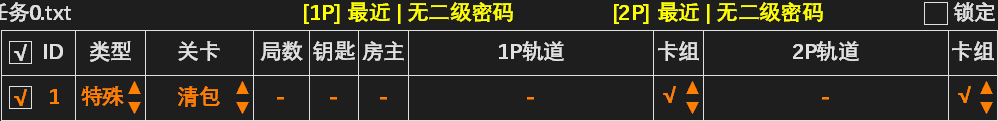
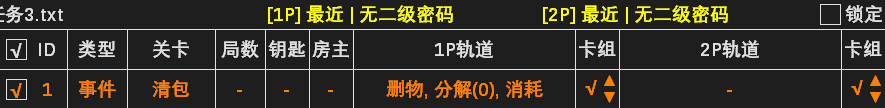
Track-Web 1.3.1 1.更新了轨道6.3的使用手册内容 2.更新了轨道6.3和6.2.1的日志 3.下载页新增DLC板块

diff --git a/docs/.vuepress/notes.ts b/docs/.vuepress/notes.ts
@@ -88,6 +88,7 @@ const guideNote = defineNoteConfig({
       { text: '5.2 任务监视', link: '/guide/8upqlk4f/' , icon: 'solar:book-bold'},
       { text: '5.3 自动带卡', link: '/guide/cjo0xlx8/' , icon: 'solar:book-bold'},
       { text: '5.4 检查任务', link: '/guide/v9pghbyn/' , icon: 'solar:book-bold'},
+      { text: '5.5 动态验证', link: '/guide/ntat024a/' , icon: 'solar:book-bold'},
     ]
     }],
 })

diff --git a/docs/notes/guide/Ch3/3.2.md b/docs/notes/guide/Ch3/3.2.md
@@ -72,28 +72,38 @@ permalink: /guide/f0kz7lyd/
 </tbody>
 </table>
 
-- 设置好每项任务的类型、关卡、局数、轨道、卡组，然后抓取1P和2P大厅，在任意岛屿启动任务，程序便会依次执行任务列表中每项勾选的任务。
-- 1. 支持的任务类型有：<span style="color: #0070C0;">悬赏、勇士、跨服、魔塔（含宠塔）、副本（假期/公会/巅峰）、任务（公会/情侣/大赛）、主线（三岛/遗迹/海底/星际）、番外（营地/沙漠/雷城/雪山/奇境）、事件（签到/施肥/清包/送花/双倍卡等）、强化（卡片/宝石）</span>。
-
-- 2. 房主可选择1P或2P。例如假期互票65局可以如下设置：
+- 设置好每项任务的类型、关卡、局数、轨道、卡组，然后抓取1P和2P大厅，进入<span style="color: red;">任意岛屿主界面</span>（如美味镇），程序便会依次执行任务列表中每项勾选的任务。
+- 执行过程中会用红绿灯指示任务状态。<span style="color: #00B050;">绿色</span>表示已完成的任务，<span style="color: red;">红色</span>表示未完成的任务，<span style="color: #ED7D31;">黄色</span>表示正在进行的任务，如下图所示。在左上角的<span style="color: red;">消息区</span>可以看到具体的执行信息。执行过程中单击“暂停”可以暂停任务，在任意岛屿主界面点击“继续”即可恢复执行。
 
 ![](./picture/3.2.1.1.png)
 
+- 补充说明：
+- 1. 支持的任务类型有：<span style="color: red;">悬赏、勇士、跨服、魔塔（含宠塔）、副本（假期/公会/巅峰）、任务（公会/情侣/大赛）、</span> <span style="color: #0070C0;">主线（三岛/遗迹/海底/星际）、</span> <span style="color: #7030A0;">番外（营地/沙漠/雷城/雪山/奇境）、</span> <span style="color: #ED7D31;">事件（签到/施肥/清包/送花/双倍卡等）、强化（卡片/宝石）</span>。单击任务类型即可修改。
+
+:::center
+![](./picture/3.2.1.2.png)
+![](./picture/3.2.1.3.png)
+:::
+
+- 2. 房主可选择1P或2P。例如假期互票65局可以如下设置：
+
+![](./picture/3.2.1.4.png)
+
 - 3. 将房主设为<span style="color: red;">同步</span>，可以让 1P 和 2P 分别建房执行单人刷图。若一方先刷完，则会等待另一方刷完再执行后面的任务。
 
-![](./picture/3.2.1.2.png)
+![](./picture/3.2.1.5.png)
 
 
 - 4. 卡组设为“×”表示该账号不参与本条任务。例如下图表示2P单刷美味悬赏。
 
-![](./picture/3.2.1.3.png)
+![](./picture/3.2.1.6.png)
 
-- 5. 执行器右侧的 <img src="./picture/3.2.1.4.png" alt="" width="80" height="25"> 按钮可以为所有任务填写通用轨道。通用轨道所需卡槽截图均已内置，可直接使用空卡组全自动带卡。自动带卡原理请看[5.3 自动带卡](../Ch5/5.3.md)。
+- 5. 执行器右侧的 <img src="./picture/3.2.1.7.png" alt="" width="80" height="25"> 按钮可以为所有任务填写通用轨道。通用轨道所需卡槽截图均已内置，可直接使用空卡组全自动带卡。自动带卡原理请看[5.3 自动带卡](../Ch5/5.3.md)。
 
 - 6. 高级任务可以同时执行 5 组，点击两侧箭头即可切换。点击任务名称可以修改。
 
 :::center
-![](./picture/3.2.1.5.png)
+![](./picture/3.2.1.8.png)
 :::
 
 - 如果还不够用，将整个轨道文件夹复制一份，即可同时启动不同文件夹中的执行器。
@@ -135,13 +145,13 @@ permalink: /guide/f0kz7lyd/
 ![](./picture/3.2.2.7.png)
 :::
 
-- 这样就建立了一份粗细角色名的对应关系（如下图）。重启执行器后，轨道将按照用户截取的细角色名进行邀请。
+- 这样就建立了一份粗细角色名的对应关系（如下图），轨道将按照截取的细角色名进行邀请。
 
 :::center
 ![](./picture/3.2.2.8.png)
 :::
 
-4. <span style="color: red;">含有英文或特殊符号的粗角色名存在两种形态</span>，需要分别与细角色名配对。刷新、换区或单击左上角的角色名即可在两种形态间切换。
+4. <span style="color: red;">含有非中文字符（字母、数字或特殊符号）的粗角色名存在两种形态</span>，需要分别与细角色名配对。刷新、换区或单击左上角的角色名即可在两种形态间切换。
 
 <img src="./picture/3.2.2.9.png" alt="" width="238" height="105">
 <img src="./picture/3.2.2.10.png" alt="" width="225" height="105"><img src="./picture/3.2.2.11.png" alt="" width="287" height="105">
@@ -159,9 +169,9 @@ permalink: /guide/f0kz7lyd/
 
 :::warning
 注意事项：
-1. <span style="color: red;">需要在执行器右侧设置刷新次数才能启用自动刷新。</span>若一条任务刷新满设定次数仍无法完成，则跳过该条任务。<span style="color: red;">一般设置3-5次即可</span>，因为多次刷新后仍然无法解决的问题大概率一直刷新也无法解决（如魔塔次数不足）。<img src="./picture/3.2.3.3.png" alt="" style="float: right; margin-left: 10px;">
+1. <span style="color: red;">需要在执行器右侧设置刷新次数才能启用自动刷新。</span>若一条任务刷新满设定次数仍无法完成，则跳过该条任务。<span style="color: red;">一般设置3-5次即可</span>，因为多次刷新后仍然无法解决的问题很可能一直刷新也无法解决（如遗迹次数不足）。<img src="./picture/3.2.3.3.png" alt="" style="float: right; margin-left: 10px;">
 
-2. 游戏大厅不能折叠刷新按钮，否则无法刷新。微端不支持刷新。
+2. 游戏大厅不能折叠刷新按钮，否则无法刷新。<span style="color: red;">微端不支持刷新。</span>
 
 ![](./picture/3.2.3.4.png)
 
@@ -172,11 +182,20 @@ permalink: /guide/f0kz7lyd/
 
 | <span style="color: red;"><b>报错信息</b></span> | 原因分析 |
 | ---- | ---- |
-| <span style="color: red;">未找到游戏窗口</span> | 登录器版本不对。轨道只能用于特定版本的360游戏大厅（群文件有安装包）和官方微端。 |
+| <span style="color: red;">未找到游戏窗口</span> | 登录器版本不对。轨道只能用于特定版本的 360 游戏大厅（群文件“轨道编辑器”文件夹可以找到安装包）和官方微端（不推荐）。 |
+| <span style="color: red;">未找到最近服务器</span> | 1. 选择服务器界面没有显示完整。<br> 2. 部分电脑上游戏大厅隐藏后无法识别服务器。建议使用微端网址（https://my.4399.com/yxmsdzls/wd-air），不用识别服务器即可完成刷新。使用其他网址时不要隐藏游戏大厅。<br> 3. 游戏处于维护状态。  |
+| <span style="color: red;">刷新按钮点击无效</span> | 1. 没有把刷新按钮显示出来。<br> 2. 电脑过于卡顿，点了刷新按钮没反应。 |
+| <span style="color: red;">不在岛屿主界面</span> | 高级任务要求在美味镇或任意岛屿启动（必须看得到“世界地图”按钮），在别的地方（如房间内）启动就会触发此报错。 |
 | <span style="color: red;">未进入[xx]界面</span> | 轨道每一步操作后都会识图检查，如果没有进入预期界面则触发此报错。例如点击悬赏图标后10秒内没有打开悬赏面板，就会报错“未进入[悬赏]界面”。<span style="color: #0070C0;">网络卡顿、点击失效或游戏bug</span>都可能导致此类问题，也可能是因为<span style="color: #0070C0;">游戏机制</span>（关卡未解锁、次数不足）导致无法进入特定界面。 |
 | <span style="color: red;">创建房间失败</span> | 一般是因为输入密码失败。可能原因有：<br>1. 用户使用键盘干扰轨道输入，例如按住Ctrl键就会使轨道无法输入密码（并不是说用户不能在轨道运行时使用键盘，毕竟碰到这个问题也能自动刷新解决）。<br>2. 游戏卡顿导致输入被吞。 |
-| <span style="color: red;">未找到绑定[xx]（带卡失败）</span> | 1. 卡组顺序与轨道不一致。<br>2. 自定卡槽文件夹没有这张卡的截图。<br>3. 背包里没有这张卡（有时需要的是<span style="color: #0070C0;">占位卡</span>，例如夜晚咖啡粉用木塞子占位，非海底关卡气泡用面粉袋占位）。<br>4. 卡片未绑定。 |
+| <span style="color: red;">地图跳转失败</span> | 1. 网络太卡。<br> 2. 人物等级不够，无法跳转到对应地图。 |
+| <span style="color: red;">未找到绑定[xx]（带卡失败）</span> | （原因有很多种，建议先阅读 [5.3 自动带卡](../Ch5/5.3.md)了解带卡机制）<br> 1. 需要携带的卡已经被保存在卡组，且位置不正确。<br>2. 自定卡槽文件夹没有这张卡的截图。<br>3. 背包里没有这张卡（有时需要的是<span style="color: #0070C0;">占位卡</span>，例如夜晚咖啡粉用木塞子占位，非海底关卡气泡用面粉袋占位）。<br>4. 卡片未绑定。 |
 | <span style="color: red;">邀请列表中未找到队友名字（邀请失败）</span> | 1. 游戏bug。队友明明和房主在一个区，但邀请列表中就是没有。一般刷新后即可解决。<br>2. 邀请界面的队友名称和轨道在好友列表搜索到的名称不一致。请使用[3.2.2 邀请机制](#_3-2-2-邀请机制)介绍的方法解决。 |
+| <span style="color: red;">缺少依赖文件（夹）<br>缺少图片文件[xx]</span> | 没有正确安装软件，或者安装后移动、删除了必需文件。<br>重新安装即可解决。 |
+| <span style="color: red;">图像获取失败</span> | 1. 游戏太卡，画面刷新率太低（开了自动刷新就不用管）。<br>2. 微端特色，建议改用 360 游戏大厅。 |
+| <span style="color: red;">出现动态验证<br>出现拼图验证</span> | 1 服低等级号会弹验证码（数字或拼图），验证不通过就会封号。<br>使用<span style="color: #0070C0;">动态验证 DLC </span>可自动通过验证。 |
+| <span style="color: red;">缺少头像截图</span> | 空间服没有正确截图 QQ 头像，或删除了默认头像。 |
+| <span style="color: red;">登录游戏超时</span> | 服务器太卡进不去。不用担心，轨道会刷新到进去为止。 |
 
 ### 3.2.5 签到施肥（含温馨礼包）
 
@@ -192,13 +211,13 @@ permalink: /guide/f0kz7lyd/
 
 ### 3.2.6 送花
 
-- 添加高级任务“特殊-送花”，即可让两号互相送花。<span style="color: red;">删该功能需要二级密码。</span>
+- 添加高级任务“特殊-送花”，即可让两号互相送花。<span style="color: red;">该功能需要二级密码。</span>
 
 ![](./picture/3.2.6.1.png)
 
 ### 3.2.7 清理背包
 
-- 添加高级任务“特殊-清包”，即可自动清理背包空间（依次执行<span style="color: red;">删除道具、分解0星宝石、使用消耗品</span>）。<span style="color: red;">该功能需要二级密码。</span>
+- 添加高级任务“特殊-清包”，即可自动清理背包空间。默认执行<span style="color: red;">删除道具、分解 0 星宝石、使用消耗品</span>三项，单击 1P 轨道处可以设置执行哪些项目、分解宝石的星级、通用礼包全开还是只用十三香。<span style="color: red;">该功能需要二级密码。</span>
 
 ![](./picture/3.2.7.1.png)
 
@@ -212,13 +231,13 @@ permalink: /guide/f0kz7lyd/
 > 1. <span style="color: red;">截图了一种物品就会使用所有图像相同的物品</span>，如有不希望使用的物品请放入储藏室。特例：截图普通礼包时，只会使用整理后位于3-11星卡包后面的礼包（如右上图），主要包括十三香礼包、米苏的回礼和星座卡初级技能书箱，不会使用各种转职套餐。但用户至少要保留一个3-11星卡包用于定位，否则不会使用任何普通礼包。
 > 2. <span style="color: red;">只能截图可以无条件使用的物品</span>。如果想使用各类礼包，必须确保背包空间充足，否则使用时会弹出绿字，轨道将判定为无法使用并终止清包流程。<span style="color: red;">不允许使用经验瓶。</span>
 
-### 3.2.8 购买魔塔次数
-- 添加高级任务“特殊-买魔塔”，即可自动购买魔塔次数。<span style="color: red;">该功能同样需要二级密码。</span>
+### 3.2.8 使用双倍卡
+- 添加高级任务“特殊-双倍卡”，“局数”填使用张数，即可自动使用双倍卡。 单击1P轨道可设置只在星期几使用双倍卡（默认为周一至周五），以及使用的双倍卡种类。
 
 ![](./picture/3.2.8.1.png)
 
-### 3.2.9 使用双倍卡
-- 添加高级任务“特殊-双倍卡”，“局数”填使用张数，即可自动使用双倍卡。 单击1P轨道可设置只在星期几使用双倍卡（默认为周一至周五），以及使用的双倍卡种类。
+### 3.2.9 购买魔塔次数
+- 添加高级任务“特殊-买魔塔”，即可自动购买魔塔次数。<span style="color: red;">该功能需要二级密码。</span>
 
 ![](./picture/3.2.9.1.png)
 
@@ -243,6 +262,7 @@ permalink: /guide/f0kz7lyd/
 
 ### 3.2.11 美食大赛
 
+- 此处只介绍识别法，列表法完成大赛请见 [3.2.12 营地与主线任务](#_3-2-12-营地与主线任务) 。
 - 添加高级任务“任务-大赛”。若只需1P完成任务，请将房主设为<span style="color: red;">1P</span>；如需1P和2P均完成任务，请将房主设为<span style="color: red;">同步</span>。
 
 ![](./picture/3.2.11.1.png)
@@ -252,8 +272,6 @@ permalink: /guide/f0kz7lyd/
 - 如需修改美食大赛预制方案，请在<span style="color: red;">预制列表</span>文件夹中找到本期大赛的预制列表，使用与 [3.2.10 公会与情侣任务](#_3-2-10-公会与情侣任务) 相同的方法进行编辑。
 
 ![](./picture/3.2.11.2.png)
-
-- 部分操作系统（如 win7）可能因为大赛字体不同导致无法识别，这时可以使用列表法完成大赛，详见 [3.2.12 营地与主线任务](#_3-2-12-营地与主线任务) 。
 
 ### 3.2.12 营地与主线任务
 - 执行文件名包含“美食大赛”的自制列表时，完成每项任务后自动领取大赛奖励。该方法也能用于全自动完成大赛，但只能按顺序执行各项任务，不能像[3.2.11 美食大赛](#_3-2-11-美食大赛)介绍的识别法一样跳过已完成任务和重试未完成的任务。

diff --git a/docs/notes/guide/Ch3/3.3.md b/docs/notes/guide/Ch3/3.3.md
@@ -5,7 +5,7 @@ permalink: /guide/pmep3q3i/
 ---
 
 ### 3.3 卡片强化系统
-- 轨道的卡片强化系统包含<span style="color: red;">强化任务、强化计算、强化统计</span>三大模块。强化任务可以稳定、快速地强化特定星级的副卡或主卡，支持多配方混合强化、中差卡强化和跨页强化。<span style="color: red;">强化计算</span>可以计算最优方案和卡片造价。<span style="color: red;">强化统计</span>用于记录强化结果和测定实际成功率。
+- 轨道的卡片强化系统包含<span style="color: red;">强化任务、强化计算、强化模拟、强化统计</span>四大模块。<span style="color: red;">强化任务</span>可以稳定、快速地强化特定星级的副卡或主卡，支持多配方混合强化、中差卡强化和跨页强化。<span style="color: red;">强化计算</span>可以计算最优方案和卡片造价。<span style="color: red;">强化模拟</span>用于计算当前材料能强化出什么卡片。<span style="color: red;">强化统计</span>用于记录强化结果和测定实际成功率。
 
 ### 3.3.1 强化任务
 - 1. 添加高级任务“强化-卡片”。强化任务只能单人执行，另一个号卡组需设为“×”。
@@ -35,7 +35,7 @@ permalink: /guide/pmep3q3i/
 
   <tr>
     <td><span style="color: red;">强化模式</span></td>
-    <td>不绑模式只使用不绑材料（卡片、香料和草），绑定模式只使用绑定材料，混合模式两者都用（优先使用绑定材料）</td>
+    <td>“不绑”模式只使用不绑材料（卡片、香料和草），“绑定”模式只使用绑定材料（因此不会使用0星卡），“混合”模式两者都用（优先使用绑定材料）。</td>
   </tr>
 
   <tr>
@@ -50,7 +50,7 @@ permalink: /guide/pmep3q3i/
 
   <tr>
     <td><span style="color: red;">卡片强化</span></td>
-    <td>设置强化的星级范围。勾选“仅强卡”则不会进行制卡。</td>
+    <td>设置强化的星级范围和强化数量。不勾选“制卡”则只会用现有卡片强化。</td>
   </tr>
 
   <tr>
@@ -61,12 +61,12 @@ permalink: /guide/pmep3q3i/
 </table>
 
 :::tip
-单击“填写推荐方案”将会填入一种可行的强化方案，但并非最优方案。最优方案与VIP/公会加成和物价有关，可以用“强化计算”模块进行计算。
+注：单击“填写推荐方案”将会填入一种可行的强化方案，但并非最优方案。不同加成、不同物价下的最优方案可能不同，可以用“强化计算”模块进行计算。
 :::
 
 :::warning
 1. <span style="color: red;">防御卡背包容量需要大于112格。</span>空位数量建议大于50格。
-2. 强化过程中遇到下列情形之一将结束强化：①需要使用的配方耗尽。②需要使用的四叶草耗尽。③背包已满且无法继续强化。④下一步强化需要的卡片无法获取。<br>
+2. 强化过程中遇到下列情形之一将结束强化：①配方耗尽。②四叶草耗尽。③背包已满且无法继续强化。④需要的卡片无法获取。<br>
 情形④举例：下一步强化需要使用0星卡，但卡片制作没有勾选0星，导致0星卡无法获取，强化终止。<span style="color: red;">只要卡片制作勾选了0星，且最低强化星级为1，就不会出现情形④。</span>
 3. 香料耗尽不会导致强化终止。需要使用n星卡而没有n星香料时，轨道会根据强化方案用低星卡制造该星级的卡片。
 :::
@@ -98,7 +98,7 @@ $$
 
 - 强化统计分为<span style="color: red;">本次数据</span>和<span style="color: red;">历史数据</span>两个页面。
 - <span style="color: red;">本次数据</span>统计正在执行的强化任务的结果（成功数、总次数、实际成功率、理论成功率）及强化材料的实时数量。
-- <span style="color: red;">历史数据</span>统计历史所有强化任务的结果。若同一星级使用过多种强化方案，结果将被合并。可以在下方的“数据查询”模块查询单一强化方案的统计结果。
+- <span style="color: red;">历史数据</span>统计历史所有强化任务的结果。数据较大时可以验证理论成功率的真实性。若同一星级使用过多种强化方案，结果将被合并。可以在下方的“数据查询”模块查询单一强化方案的统计结果。
 
 <img src="./picture/3.3.3.2.png" alt="" width="370" height="350">
 

diff --git a/docs/notes/guide/log.md b/docs/notes/guide/log.md
@@ -9,6 +9,17 @@ permalink: /guide/lf79r21k/
 
 ## 轨道编辑器更新日志
 
+### 【6.3】
+1. 更新本期大赛。
+2. “跨服”类型新增沙漠跨服。
+3. 任务列表用红绿灯指示任务完成情况。
+4. 任务列表允许从中间启动。双击某个任务ID，即可从此处开始执行。
+5. 任务列表新增暂停功能（以局为单位，第5局中途暂停则继续执行时从第5局开始）。
+6. 任务列表中允许存在多个自动爬塔任务。
+7. 登录失败触发刷新时只刷新登录失败的账号。
+8. 自动通过动态验证（需下载动态验证DLC）。
+9. bug修复：“控制-刷新”任务会刷新没有勾选的账号；强化13星以上卡片无法识别结果；保鲜袋干扰香料识别。
+
 ### 【6.2】
 1. 自动爬塔加强：不再只能使用同一个轨道爬塔，现在可以识别层数自动匹配轨道。（使用手册3.2.13）
 2. 新增魔塔1-100层预制轨道。
@@ -18,6 +29,8 @@ permalink: /guide/lf79r21k/
 6. 允许在列表中启动其他高级任务。（使用手册3.2.14）
 7. 对话框字体稍微增大。
 8. bug修复：单人检查任务出错；定时退出失效；使用<>指令替换的卡第2局以后不放卡。
+#### 【6.2.1】
+1. bug修复：宠塔、密室误报“魔塔次数不足”；强化数据上传出错。
 
 ### 【6.1】
 1. 新增本期营地任务预制列表。

diff --git a/docs/notes/guide/Ch5/5.5.md b/docs/notes/guide/Ch5/5.5.md
@@ -1,0 +1,13 @@
+---
+title: 5.5 动态验证
+createTime: 2026/01/02 16:25:05
+permalink: /guide/ntat024a/
+---
+
+### 5.5 动态验证
+
+- 1 服低等级号会不定期弹出数字验证或拼图验证，验证失败会封号一段时间。
+
+<img src="./picture/5.5.0.1.png" alt="" width="360" height="309"><img src="./picture/5.5.0.2.png" alt="" width="389" height="309">
+
+- 轨道提供了<span style="color: red;">动态验证 DLC </span>来自动通过验证。在群文件“轨道编辑器”文件夹下载<span style="color: red;">动态验证 DLC.zip</span>，把压缩包里的“动态验证”文件夹放在轨道执行器所在目录，重启执行器，即可使用动态验证功能。

diff --git a/docs/notes/guide/Download.md b/docs/notes/guide/Download.md
@@ -2,7 +2,7 @@
 title: 下载
 order: 2
 tags:
-  - 使用指南
+  - 下载
 createTime: 2025/04/08 13:36:58
 permalink: /guide/11i6erwv/
 ---
@@ -13,6 +13,9 @@ permalink: /guide/11i6erwv/
 [下载360游戏大厅（轨道稳定适配此版本）](https://yxdt.game.keniub.com/360game5_setup.exe)<br>
 [dll修复工具（若运行轨道时提示缺dll请下载）](https://doc.mstrack.cn/download/dll修复工具.zip)<br>
 [等线字体（若不能正确显示等线字体请下载）](https://doc.mstrack.cn/download/等线字体.zip)
+
+## 轨道DLC
+[动态验证DLC](https://doc.mstrack.cn/download/动态验证DLC.zip)
 
 ## 轨道交流群
 - 2群：815181032

diff --git a/docs/notes/demo/轨道使用手册.md b/docs/notes/demo/轨道使用手册.md
@@ -2,7 +2,7 @@
 title: 轨道简介
 order: 2
 tags:
-  - 使用指南
+  - 简介
 createTime: 2025/04/08 13:36:58
 permalink: /demo/rrgwltgh/
 ---

diff --git a/docs/notes/demo/README.md b/docs/notes/demo/README.md
@@ -2,7 +2,7 @@
 title: 简介与配置
 index: false
 tags:
-  - 使用指南
+  - 配置
 createTime: 2025/04/08 13:36:58
 permalink: /demo/
 ---
